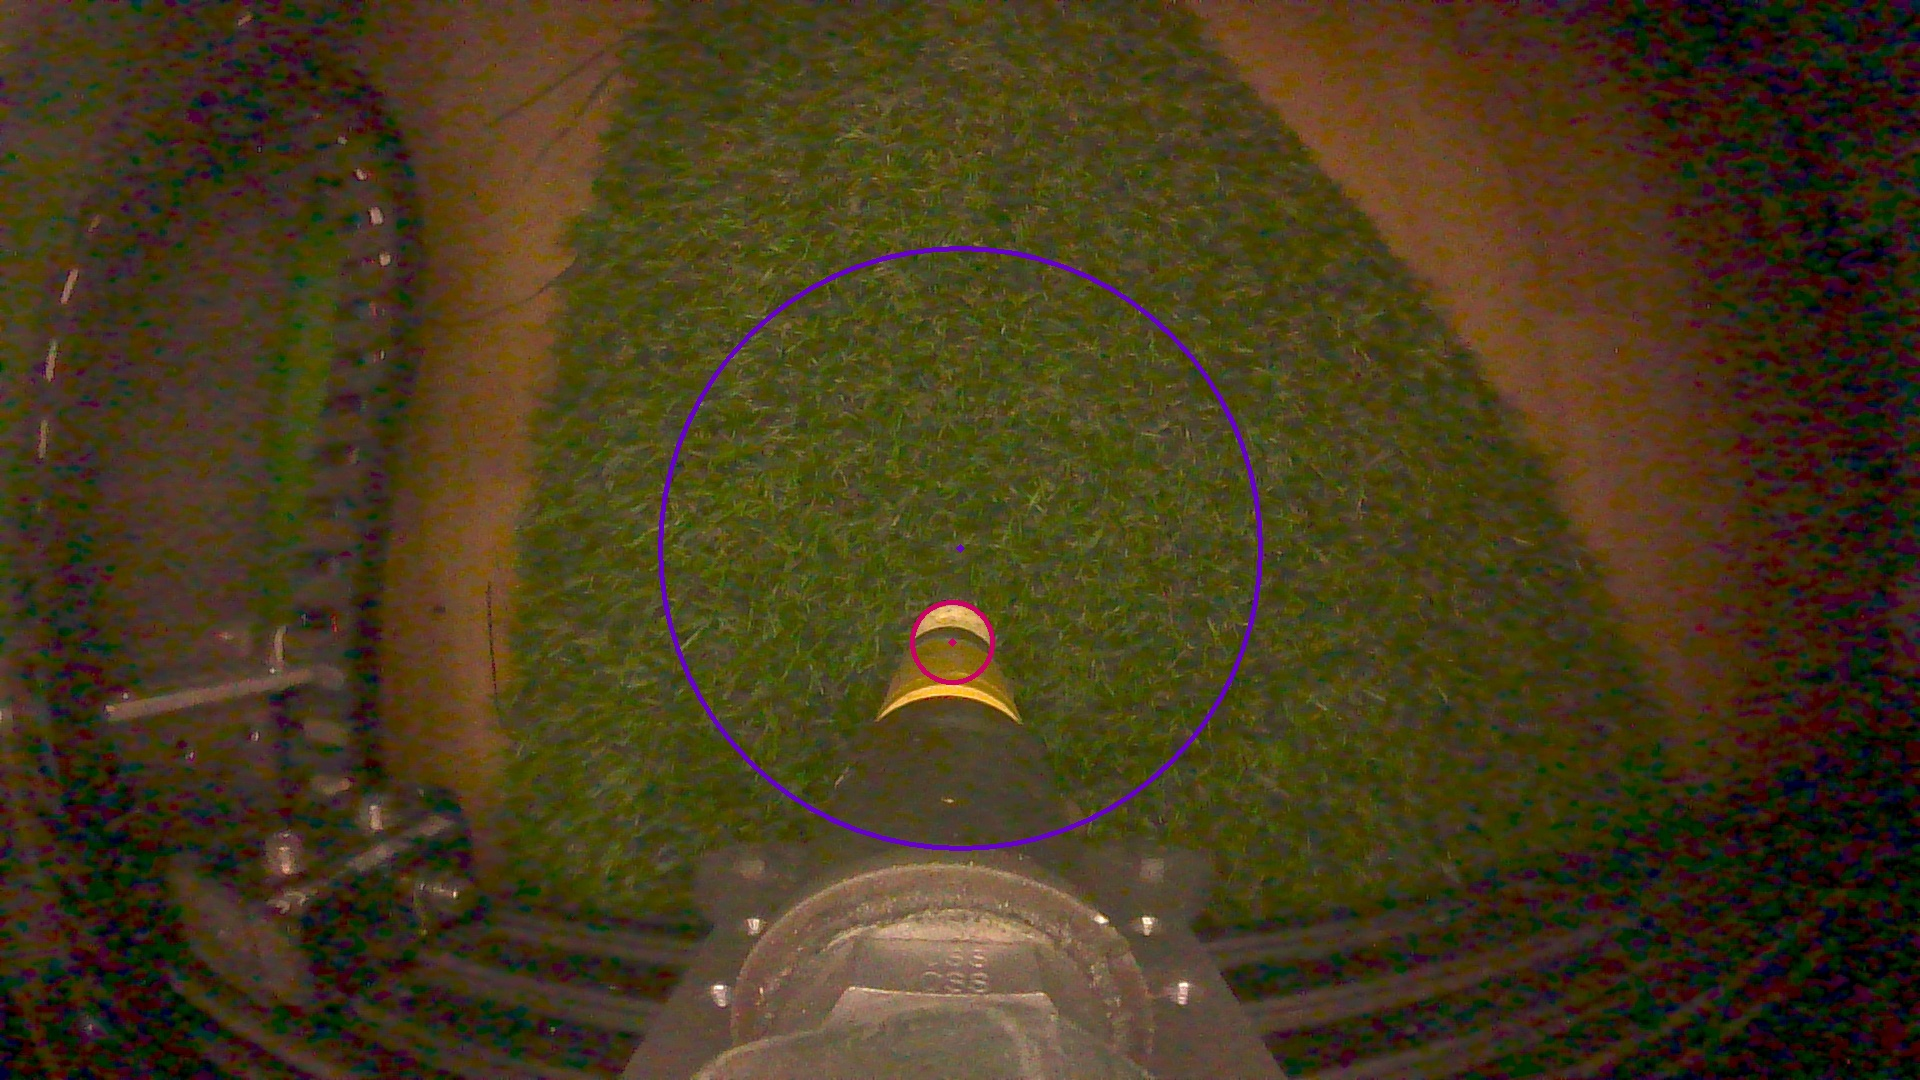
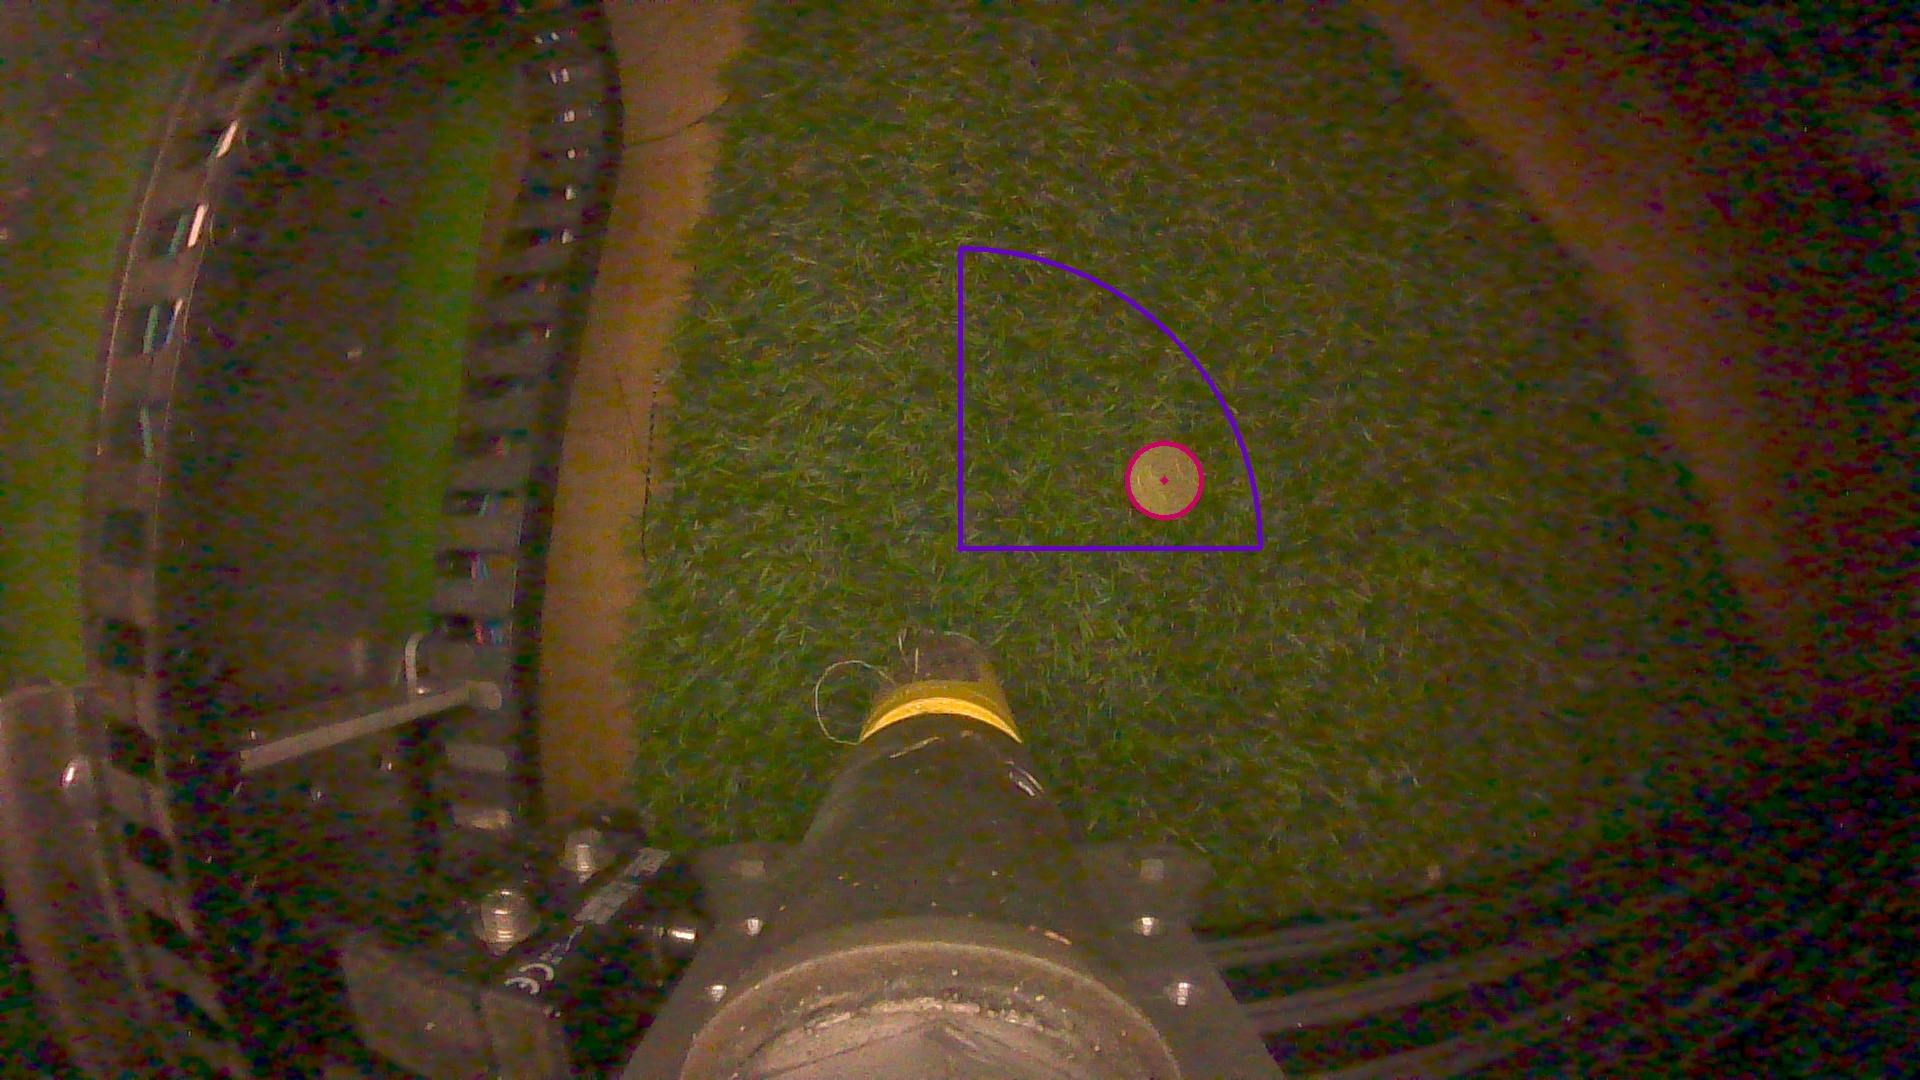
Adding new translate and change the good area for detection

diff --git a/deployement/cameraCalibration.py b/deployement/cameraCalibration.py
@@ -111,7 +111,9 @@ class CameraCalibration:
             for i in all_circles_rounded[0, :]:
                 cv2.circle(img_origine, (i[0],i[1]),i[2],(102,0,204),3)
                 cv2.circle(img_origine, (i[0],i[1]),2,(102,0,204),3)
-                cv2.circle(img_origine, (config.SCENE_CENTER_X,config.SCENE_CENTER_Y),config.UNDISTORTED_ZONE_RADIUS,(204,0,102),3)
+                cv2.ellipse(img_origine, (config.SCENE_CENTER_X,config.SCENE_CENTER_Y),(config.UNDISTORTED_ZONE_RADIUS,config.UNDISTORTED_ZONE_RADIUS),0,270,360,(204,0,102),3)
+                cv2.line(img_origine, (config.SCENE_CENTER_X,config.SCENE_CENTER_Y), (config.SCENE_CENTER_X+config.UNDISTORTED_ZONE_RADIUS,config.SCENE_CENTER_Y), (204,0,102), 3) 
+                cv2.line(img_origine, (config.SCENE_CENTER_X,config.SCENE_CENTER_Y), (config.SCENE_CENTER_X,config.SCENE_CENTER_Y-config.UNDISTORTED_ZONE_RADIUS), (204,0,102), 3) 
                 cv2.circle(img_origine, (config.SCENE_CENTER_X,config.SCENE_CENTER_Y),2,(204,0,102),3)
 
             if ExtractionManagerV3.is_point_in_circle(self.target_x, self.target_y, config.SCENE_CENTER_X, config.SCENE_CENTER_Y, config.UNDISTORTED_ZONE_RADIUS):
